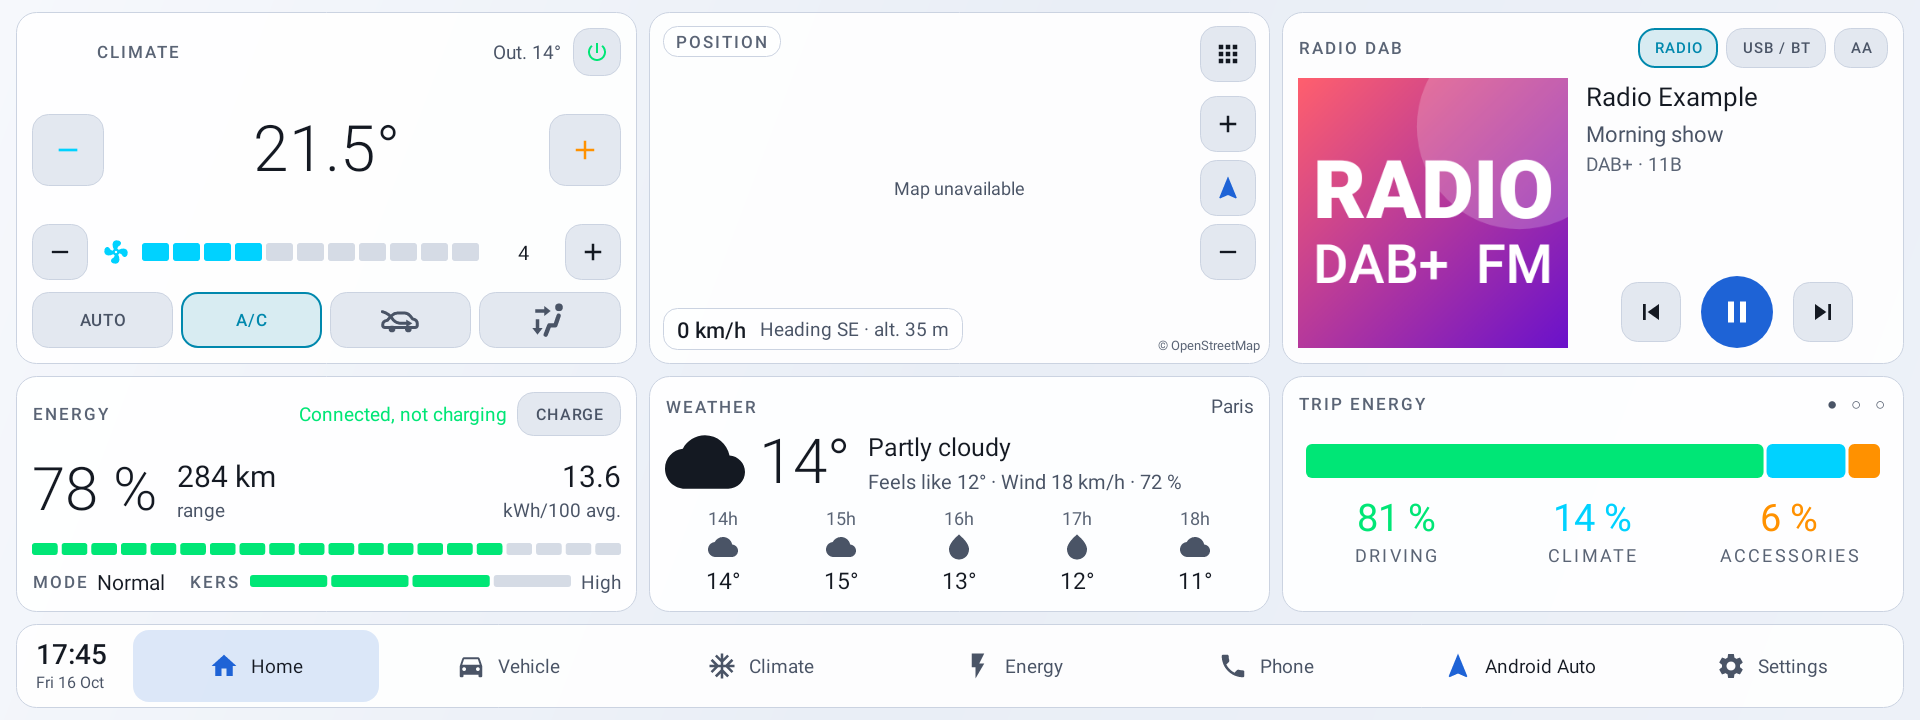
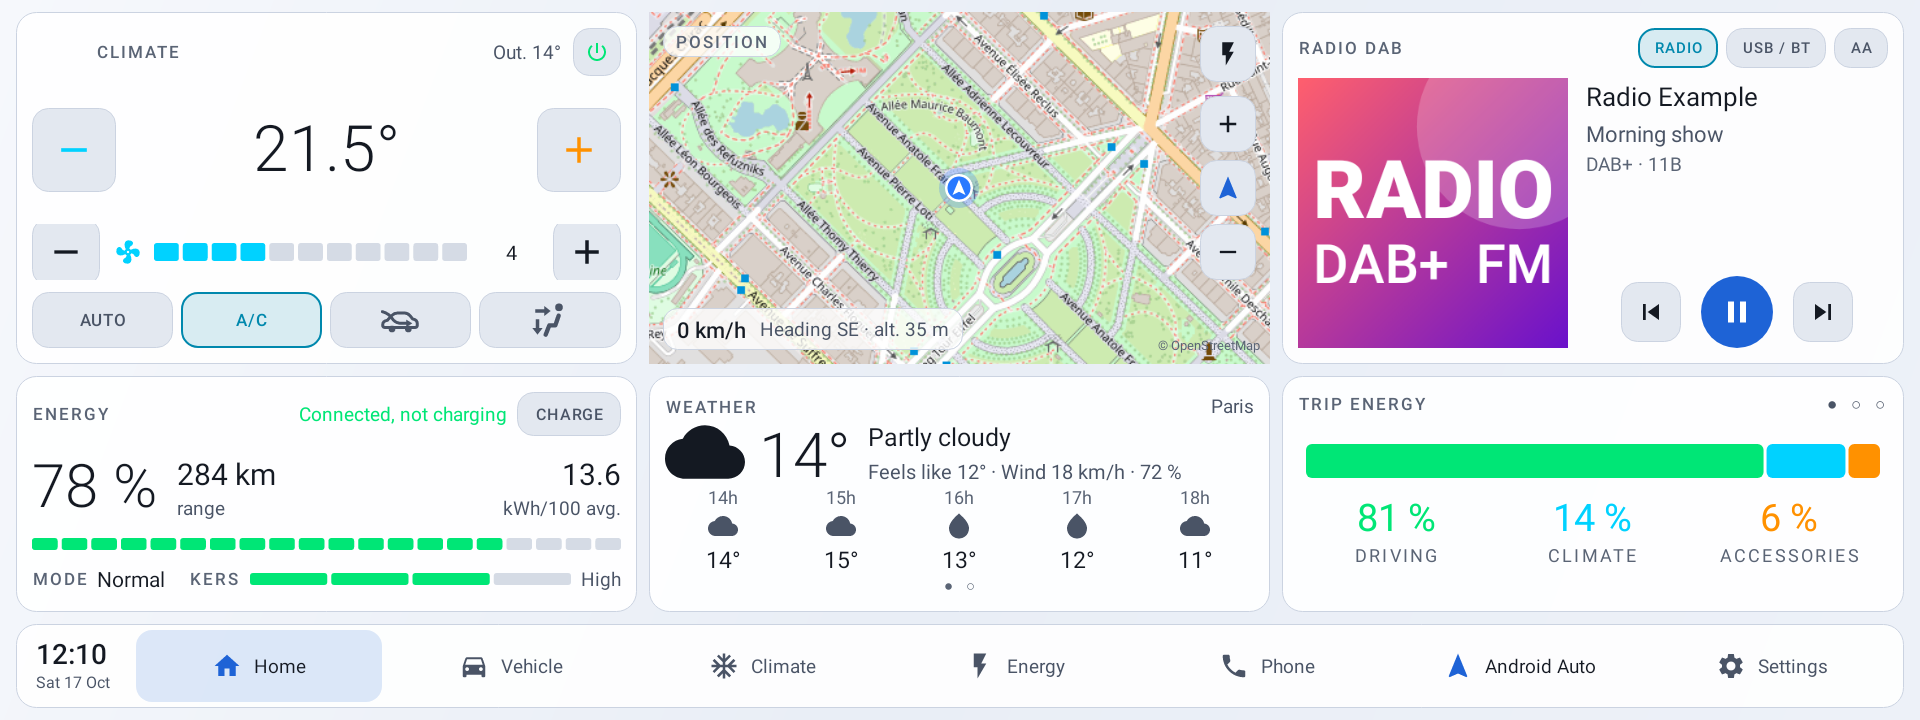
1.0.0: README with the latest features and screenshots (vertical bar, map layout, map excerpt of Paris in the PC renders)

diff --git a/app/src/main/java/app/mg4dash/map/MapCard.kt b/app/src/main/java/app/mg4dash/map/MapCard.kt
@@ -26,6 +26,8 @@ class MapCard(private val context: Context, holder: ViewGroup) {
 
     private val map: MapView?
     private val marker: Marker?
+    /** Captures d'écran (PC) : extrait de carte fixe, tuiles OpenStreetMap fournies par les tests. */
+    private var preview: android.view.View? = null
     private var follow = true
     private var lastTouch = 0L
     /** Niveau de zoom voulu : le suivi l'utilise, sinon chaque position annulait le zoom en cours. */
@@ -39,6 +41,7 @@ class MapCard(private val context: Context, holder: ViewGroup) {
         // Robolectric (captures sur PC) ne sait pas dessiner osmdroid : on laisse le fond.
         if (Build.FINGERPRINT == "robolectric") {
             map = null; marker = null
+            preview = screenshotPreview(holder)
         } else {
             val conf = Configuration.getInstance()
             conf.userAgentValue = "MG4Launcher/${context.packageName}"
@@ -104,7 +107,41 @@ class MapCard(private val context: Context, holder: ViewGroup) {
         return ColorMatrixColorFilter(invert)
     }
 
-    val available: Boolean get() = map != null
+    val available: Boolean get() = map != null || preview != null
+
+
+    private fun screenshotPreview(holder: ViewGroup): android.view.View? = try {
+        val cl = javaClass.classLoader!!
+        val (cx, cy) = cl.getResourceAsStream("map_preview/center.txt")!!.bufferedReader().readText().trim().split(" ").map { it.toFloat() }
+        val mosaic = android.graphics.Bitmap.createBitmap(5 * 256, 5 * 256, android.graphics.Bitmap.Config.ARGB_8888)
+        val canvas = android.graphics.Canvas(mosaic)
+        for (x in 0..4) for (y in 0..4) {
+            cl.getResourceAsStream("map_preview/tile_${x}_$y.png")?.use { android.graphics.BitmapFactory.decodeStream(it) }
+                ?.let { canvas.drawBitmap(it, x * 256f, y * 256f, null) }
+        }
+        // Zone centrée sur le point, à la taille du widget
+        val frame = object : android.widget.FrameLayout(context) {
+            override fun onLayout(changed: Boolean, l: Int, t: Int, r: Int, b: Int) {
+                super.onLayout(changed, l, t, r, b)
+                val w = r - l; val h = b - t
+                if (w <= 0 || h <= 0) return
+                val img = getChildAt(0) as android.widget.ImageView
+                val scale = maxOf(1.3f, w / 1000f, h / 1000f)
+                img.imageMatrix = android.graphics.Matrix().apply { setTranslate(w / 2f / scale - cx, h / 2f / scale - cy); postScale(scale, scale) }
+            }
+        }
+        frame.addView(android.widget.ImageView(context).apply {
+            scaleType = android.widget.ImageView.ScaleType.MATRIX
+            setImageBitmap(mosaic)
+            if (!app.mg4dash.ui.Themes.isLight(context)) colorFilter = darkFilter()
+        }, android.widget.FrameLayout.LayoutParams(-1, -1))
+        val d = context.resources.displayMetrics.density
+        frame.addView(android.widget.ImageView(context).apply {
+            setImageDrawable(ContextCompat.getDrawable(context, R.drawable.ic_car_marker))
+        }, android.widget.FrameLayout.LayoutParams((44 * d).toInt(), (44 * d).toInt(), android.view.Gravity.CENTER))
+        holder.addView(frame, ViewGroup.LayoutParams(ViewGroup.LayoutParams.MATCH_PARENT, ViewGroup.LayoutParams.MATCH_PARENT))
+        frame
+    } catch (_: Throwable) { null }
 
     fun update(location: Location) {
         val m = map ?: return

diff --git a/README.md b/README.md
@@ -1,80 +1,102 @@
 # MG4Dash
 
-Full-screen launcher for the MG4 and its 1920 × 720 screen, developed on the SWI69 firmware (A9 family), with beta support for the other firmwares: a "dark glass" look, a three-column home screen, and Climate, Energy, Vehicle and Phone pages linked by a shared dock.
+Full-screen launcher for the MG4 and its 1920 × 720 screen, developed on the SWI69 firmware (A9 family), with beta support for the other firmwares: a "dark glass" look, three home layouts, and Climate, Energy, Vehicle and Phone pages linked by a shared dock or a vertical bar.
 
 Languages: English (default), French, German, Spanish, Italian and Dutch, following the car's system language.
 
-> Screenshots are rendered on a PC with simulated data (the OpenStreetMap map only shows on the car).
+> Screenshots are rendered on a PC with simulated data; the map excerpt is a fixed view of Paris (OpenStreetMap).
 
 ### Home
-![Home](docs/screenshots/home.png?v=12)
-Climate (temperature, fan, AUTO, A/C, recirculation, defrost), energy (battery, range, estimated consumption, drive mode, KERS, Charge / Start V2L button), vehicle position, Open-Meteo weather, a media card that follows the car's active audio source (DAB/FM radio, Bluetooth, USB, Android Auto) and a bottom-right widget with three pages (see below).
+![Home](docs/screenshots/home.png?v=13)
+Climate (temperature, fan, AUTO, A/C, recirculation, defrost), energy (battery, range, estimated consumption, drive mode, KERS, Charge / Start V2L button), the map, Open-Meteo weather, a media card that follows the car's active audio source (DAB/FM radio, Bluetooth, USB, Android Auto) and a bottom-right widget with three pages (see below).
+
+- **Media card**: swipe up / down to switch to the next available source (radio, Bluetooth, USB, Android Auto / CarPlay when connected); playback starts by itself. DAB+ stations show their slideshow image, or the station image cached by the radio.
+- **Weather**: swipe it, or tap its dots, to switch between hourly and daily forecasts. The city name follows the car's position; without data connection it shows the outside temperature and retries until the connection and the position are back.
+- **KERS gauge**: tap a segment to set the regeneration level (low, medium, high, adaptive); long press toggles one-pedal driving.
 
 Long press the Android Auto button in the dock to make it open Android Auto, CarPlay or the app of your choice.
 
 ### Bottom-right widget
-Tap it to switch between three pages, all readable at a glance while driving:
+Swipe or tap it to switch between three pages, all readable at a glance while driving:
 - **Trip energy**: one big bar and the share of driving, climate control and accessories since start-up (details on the Energy page).
-- **Live power**: kW drawn from or recovered into the battery, refreshed every second, with the trip average.
-- **Phone**: three favourite contacts chosen from the phone book (tap to call, long press to change). The phone book is resynced when you pick a contact, and the last one received is kept.
+- **Live power**: kW drawn from or recovered into the battery, refreshed every second, with the trip average, the battery voltage and current (green while regenerating).
+- **Phone**: three favourite contacts chosen from the phone book (tap to call, long press to change).
 
 | | |
 |---|---|
-| ![Live power](docs/screenshots/home_widget_power.png?v=12) | ![Phone favourites](docs/screenshots/home_widget_phone.png?v=12) |
+| ![Live power](docs/screenshots/home_widget_power.png?v=13) | ![Phone favourites](docs/screenshots/home_widget_phone.png?v=13) |
 
 ### Map home layout
-![Map layout](docs/screenshots/home_map_layout.png?v=12)
-A third layout (Settings › Home layout › Map), suggested in [issue #6](https://github.com/Skittle6938/MG4Dash/issues/6): weather and climate on the left, a stack (energy, trip energy, live power, phone) above the media in the centre, and the map over the whole right column with 3 rows of shortcuts. Swipe the stack or tap its dots to change page; with the automatic option, it jumps back to the battery once when the car is plugged in. The date and time are shown in the weather card.
+![Map layout](docs/screenshots/home_map_layout.png?v=13)
+A third layout (Settings › Home layout › Map), suggested in [issue #6](https://github.com/Skittle6938/MG4Dash/issues/6): weather with the date and time, climate on the left, a stack (energy, trip energy, live power, phone) above the media in the centre, and the map over the whole right column. Swipe the stack to change page; with the automatic option, it jumps back to the battery once when the car is plugged in. Speed, heading and altitude sit at the top left of the map; in heading-up mode the car is placed in the lower part to show more of the road ahead.
 
-The dock's clock can be swapped for a Wi-Fi settings button: long press the clock.
+The map widget also has a **consumption** page and **3 rows of shortcuts** (button at its top right); it switches to consumption by itself when there is no data connection.
+
+| | |
+|---|---|
+| ![Map layout, consumption](docs/screenshots/home_map_layout_consumption.png?v=13) | ![Map layout, shortcuts](docs/screenshots/home_map_layout_shortcuts.png?v=13) |
+
+### Vertical bar
+![Vertical bar](docs/screenshots/home_map_layout_vertical.png?v=13)
+Settings › Home layout › *Vertical bar on the left*: the dock becomes an icon bar on the left, with the space at the top for the MG fog light button. Settings (tap: car settings, long press: launcher settings, double tap: Wi-Fi), Android Auto / CarPlay, phone, energy, vehicle and home. It applies at once to every home layout, every page and to Radio Dash.
+
+| | |
+|---|---|
+| ![Vertical bar, full layout](docs/screenshots/home_vertical_full.png?v=13) | ![Vertical bar, energy page](docs/screenshots/energy_vertical.png?v=13) |
+
+*Hide widget titles* (same settings) removes the card titles on every layout for a calmer screen.
 
 ### Turn-by-turn on the map
-![Navigation banner](docs/screenshots/home_map_layout_nav.png?v=12)
+![Navigation banner](docs/screenshots/home_map_layout_nav.png?v=13)
 With [DiAuto](https://github.com/merthankaraman/DiAuto-MG4) (or another Headunit Revived-based Android Auto app that broadcasts `com.andrerinas.headunitrevived.NAVIGATION_UPDATE`), the next manoeuvre is shown over the home map: arrow, distance, street, time and distance left, arrival time. The stock Android Auto app does not receive this information from the phone, so it only works with these apps.
 
 ### Simple home layout
-![Simple home](docs/screenshots/home_simple.png?v=12)
+![Simple home](docs/screenshots/home_simple.png?v=13)
 An alternative, calmer home screen for those who want fewer buttons and bigger text: three large panels (climate, battery, media), two configurable shortcuts and today's weather, with a reduced dock (Home, Phone, Android Auto, Settings). Choose it in the launcher settings, under "Home layout"; tap a panel to open the matching page.
 
 ### Shortcuts and Home Assistant
-![Shortcuts](docs/screenshots/home_shortcuts.png?v=12)
-The button at the top right of the map swaps it for 2 pages of 4 × 2 shortcuts: apps or Home Assistant actions (scripts, automations, scenes, buttons, gate, garage door…). Tap an empty slot, or long press any slot, to change it. The Home Assistant address and token are set in the launcher settings.
+![Shortcuts](docs/screenshots/home_shortcuts.png?v=13)
+The button at the top right of the map swaps it for pages of shortcuts: apps or Home Assistant actions (scripts, automations, scenes, buttons, gate, garage door…). Tap an empty slot, or long press any slot, to change it. The Home Assistant address and token are set in the launcher settings.
 
 ### Themes
-![Charcoal background, orange buttons](docs/screenshots/home_theme_charcoal_orange.png?v=12)
-Background (night blue, black, charcoal, dark green, dark burgundy) and button colour (blue, grey, red, green, orange) are chosen separately in the launcher settings and apply to every page. Battery green, heating orange, cooling cyan and alert red keep their meaning. Radio Dash 1.2 follows the same theme.
+![Charcoal background, orange buttons](docs/screenshots/home_theme_charcoal_orange.png?v=13)
+Background (night blue, black, charcoal, dark green, dark burgundy) and button colour (blue, grey, red, green, orange) are chosen separately in the launcher settings and apply to every page. Battery green, heating orange, cooling cyan and alert red keep their meaning. Radio Dash follows the same theme.
 
-Light mode: dark, light or auto in the same settings. In auto, every page (and Radio Dash) switches to dark when the car's lights come on, and back to light when they go off.
+Light mode: dark, light or auto in the same settings. In auto, every page (and Radio Dash, even while it stays on screen) switches to dark when the car's lights come on, and back to light when they go off.
 
-![Light mode, home](docs/screenshots/home_light.png?v=12)
+![Light mode, home](docs/screenshots/home_light.png?v=13)
 
 | | |
 |---|---|
-| ![Climate, light](docs/screenshots/climate_light.png?v=12) | ![Energy, light](docs/screenshots/energy_light.png?v=12) |
-| ![Simple home, light](docs/screenshots/home_simple_light.png?v=12) | ![Settings, light](docs/screenshots/settings_light.png?v=12) |
+| ![Climate, light](docs/screenshots/climate_light.png?v=13) | ![Energy, light](docs/screenshots/energy_light.png?v=13) |
+| ![Simple home, light](docs/screenshots/home_simple_light.png?v=13) | ![Settings, light](docs/screenshots/settings_light.png?v=13) |
 
 ### Climate
-![Climate](docs/screenshots/climate.png?v=12)
+![Climate](docs/screenshots/climate.png?v=13)
 Temperature in 1° steps (LO → HI), fan speed, combinable air direction, AUTO, A/C, ECO, recirculation and front / rear defrost.
 
 ### Energy
-![Energy](docs/screenshots/energy.png?v=12)
-Charging (start / stop, charge limit enforced by MG4Dash, AC current), scheduled charging, V2L (stop threshold, start / stop), battery heating while driving (same switch as the stock Energy app) and consumption (driving, climate, accessories, regeneration, curve of the last kilometres).
+![Energy](docs/screenshots/energy.png?v=13)
+Charging (start / stop, charge limit enforced by MG4Dash, AC current, time left, AC input voltage and current, reason when the car stops charging), scheduled charging, V2L (stop threshold, start / stop), battery heating while driving (same switch as the stock Energy app) and consumption (driving, climate, accessories, energy and range recovered by braking, curve of the last kilometres).
 
 ### Vehicle
-![Vehicle](docs/screenshots/vehicle.png?v=12)
-Drive mode, KERS, driver assistance and vehicle status, read only, with a shortcut to MG4 Control.
+![Vehicle](docs/screenshots/vehicle.png?v=13)
+Drive mode, regeneration (tap the gauge to change it), driver assistance, tyre pressures and temperatures, and vehicle status, with a shortcut to MG4 Control.
 
 ### Phone
-![Phone](docs/screenshots/phone.png?v=12)
+![Phone](docs/screenshots/phone.png?v=13)
 Recent calls, contacts with a search field and a keypad, from the phone connected over Bluetooth. Calls go through the hands-free (HFP) account, like the stock phone app, whose in-call screen is kept.
 
 ### Battery health (estimated)
 Between two charges, MG4Dash measures the energy actually taken from the battery (regeneration deducted) and divides it by the drop in battery %: from a 15 % drop, that gives the real usable capacity. Each charge-to-charge period is kept as a dated measurement; the average, weighted by the % drop, is shown over the last 30 days and since the first measurement, against the usable capacity of a new battery of your model (51, 64 or 77 kWh, chosen in Settings › Energy). The car's integer % and charging losses make it an estimate: it settles after a few charges.
 
+The car does not share the battery or motor temperature with the head unit, so MG4Dash cannot show them.
+
 ### Launcher settings
-![Settings](docs/screenshots/settings.png?v=12)
-Home screen (replace the SAIC home / maintenance mode), battery capacity (read from the car or measured by MG4Dash) and estimated battery health, weather city, startup, full screen, energy data recorder, Home Assistant and a built-in log.
+![Settings](docs/screenshots/settings.png?v=13)
+Grouped by category in one scrolling page: home layout and display options, theme, energy (battery capacity and estimated health), home screen (replace the SAIC home / maintenance mode, startup), update, weather, Home Assistant and diagnostics (compatibility test, built-in log, energy data recorder). Each on/off option is a single button that lights up when it is on.
+
+**Update**: Settings › Update › Check downloads the latest MG4Dash release from GitHub and installs it (internet connection needed); turn on *Include beta versions* to also get the betas.
 
 ## Compatibility (beta)
 
@@ -102,6 +124,7 @@ Features a firmware does not expose are hidden instead of failing (for example M
   - `energy/ConsumptionEstimator.kt`: kWh/100 estimated from battery % and kilometres
   - `energy/EnergyLogger.kt`: read-only CSV recorder of battery power, consumption counters and equipment states
   - `media/MediaHub.kt`: active player, chosen from the car's audio source like the stock launcher
+  - `map/NavRepo.kt`: turn-by-turn data broadcast by DiAuto / Headunit Revived
   - `shortcuts/Shortcuts.kt`: shortcut grid and Home Assistant REST calls
   - `weather/WeatherRepo.kt`: Open-Meteo weather
   - `system/HomeSwitcher.kt`: maintenance mode (gives the home screen back to the SAIC launcher)
@@ -154,12 +177,15 @@ The SAIC launcher package (`com.saicmotor.launcher`) is never disabled: its serv
 
 ## Gestures
 
-- Long press "Settings" in the dock: launcher settings
+- Long press "Settings" in the dock (or in the vertical bar): launcher settings; double tap it in the vertical bar: Wi-Fi
 - Long press "Home" in the dock: list of installed apps
 - Long press the clock in the dock: clock or Wi-Fi settings button
 - Long press "Android Auto" in the dock: Android Auto, CarPlay or another app
-- Tap the bottom-right widget: trip energy → live power → phone; long press a phone favourite to change it
-- Button at the top right of the map: map ↔ shortcuts; long press a shortcut to edit it
+- Tap or swipe the bottom-right widget (or the map layout stack): next page; long press a phone favourite to change it
+- Swipe the media card up / down: next audio source
+- Swipe the weather card: hourly ↔ daily forecast
+- Tap a segment of the KERS gauge: regeneration level; long press: one-pedal driving
+- Button at the top right of the map: map → consumption → shortcuts; long press a shortcut to edit it
 - Map "recenter" button: resume following the car; press again to switch between north up and car heading up (green)
 
 ## Credits
